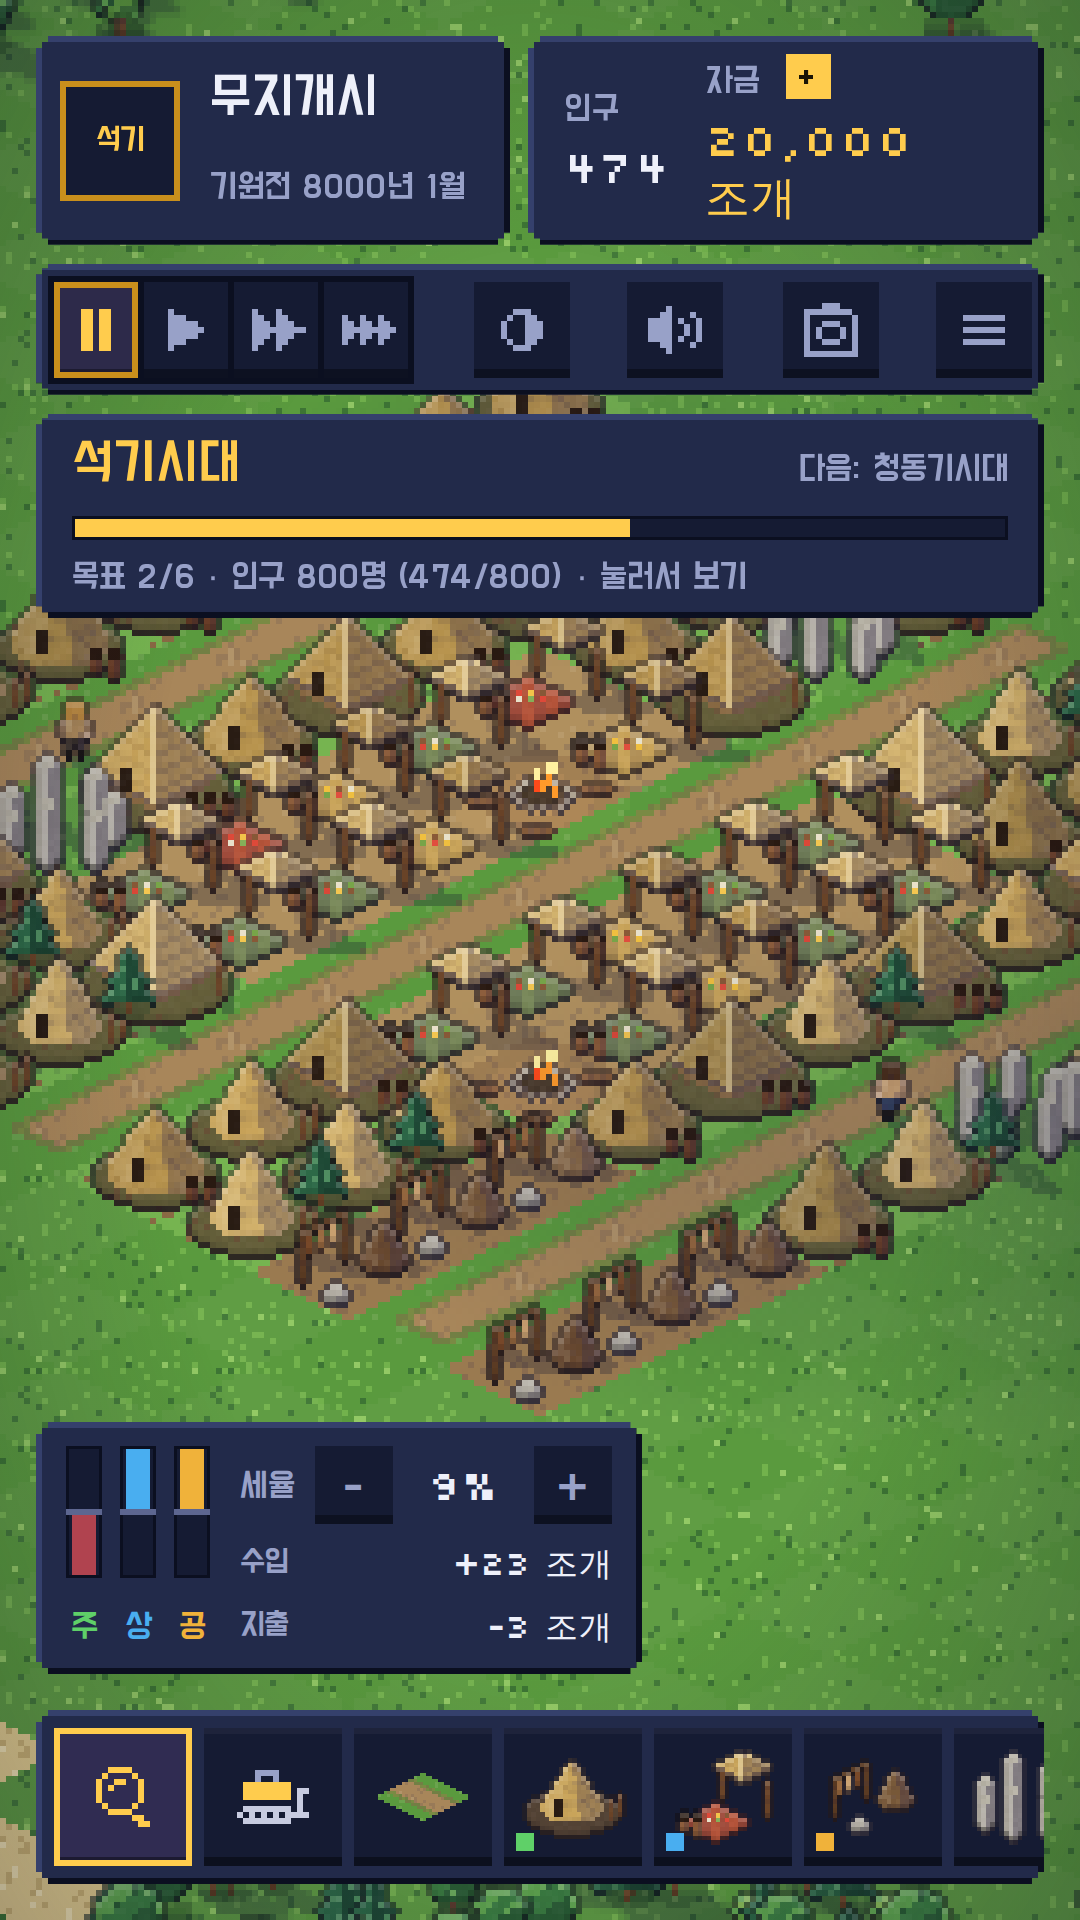
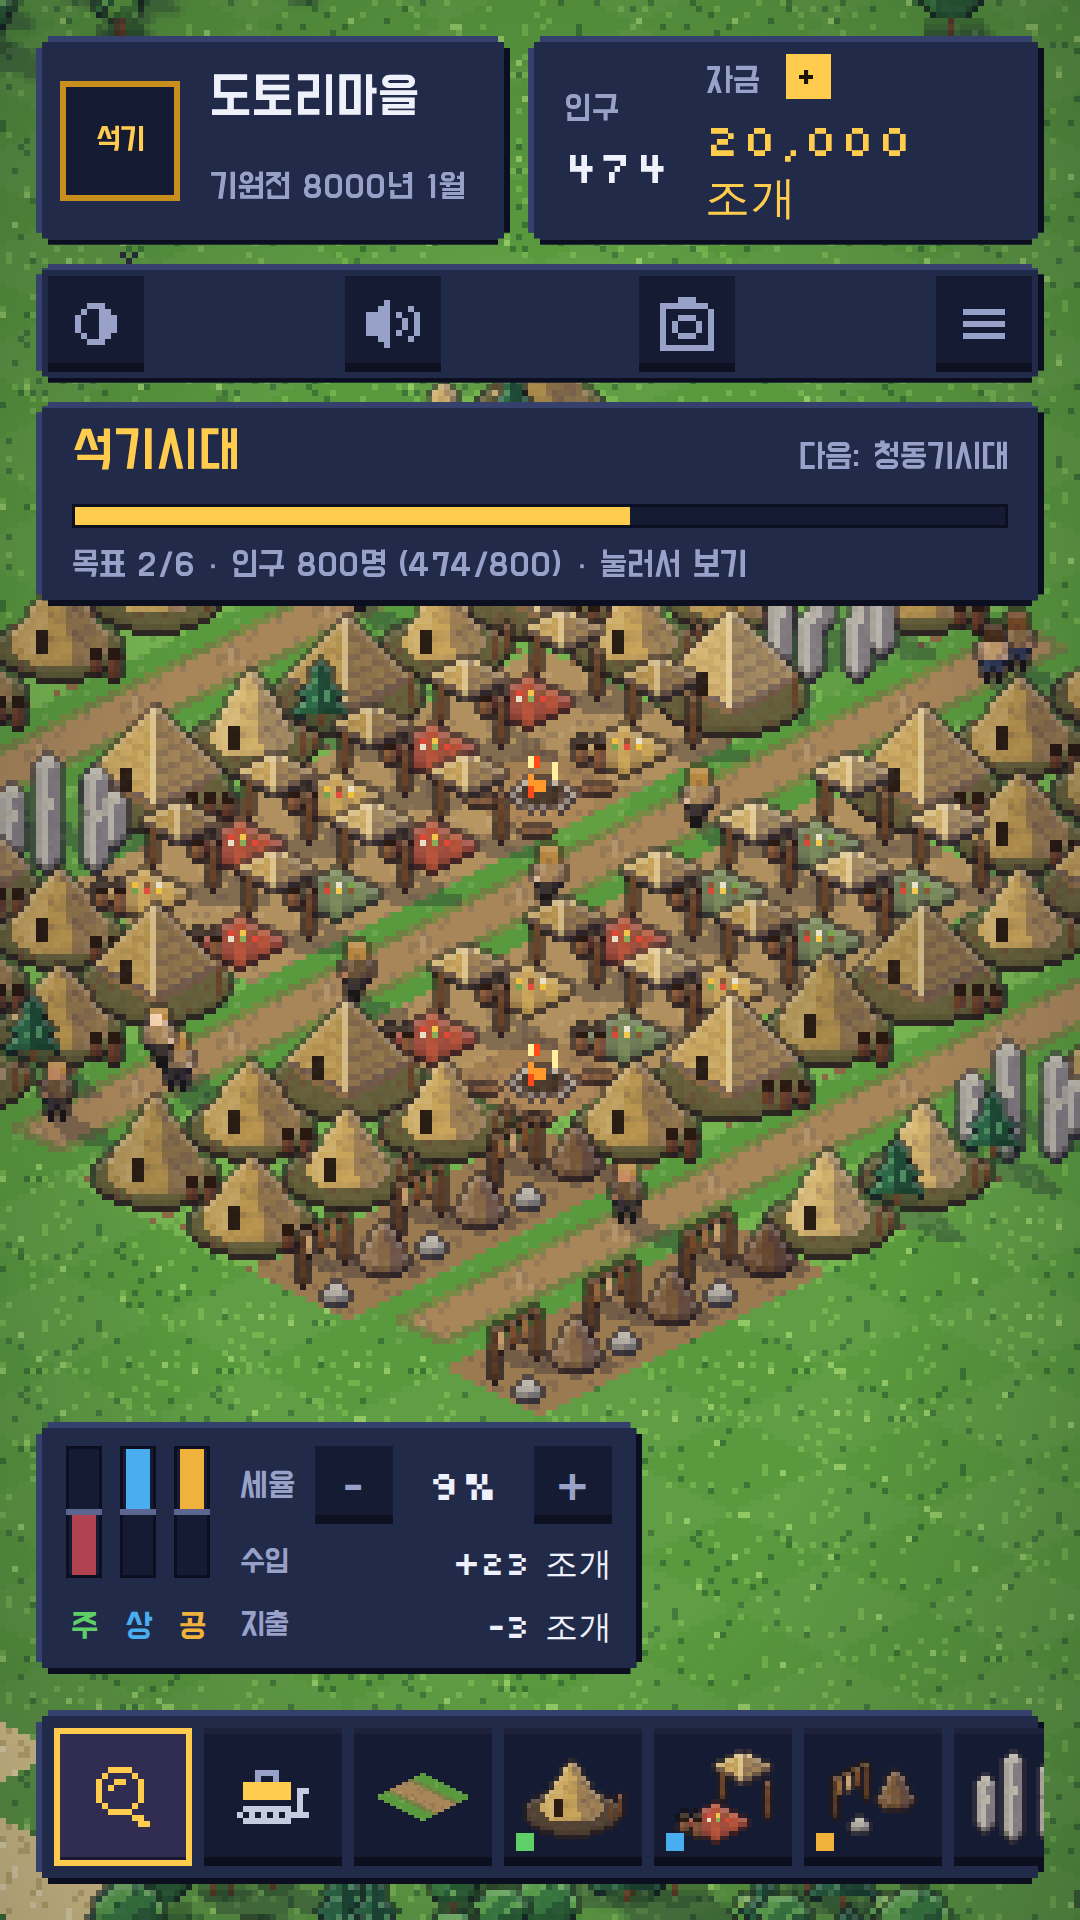
Remove the pause and speed buttons
The city always runs at normal pace; fast-forward also sped up income,
which made top-ups pointless. Dialogs still pause the game behind them.
Store screenshots regenerated without the speed buttons.

Claude-Session: https://claude.ai/code/session_01XxvA4eUhsjPuZbBYtpabHX

diff --git a/dotcity/index.html b/dotcity/index.html
@@ -75,6 +75,7 @@ button{font:inherit;color:inherit}
 .em-name small{display:block;margin-top:6px;font-size:12px;color:var(--ink-dim)}
 .date{font-size:12px;color:var(--ink-dim)}
 .ctrl{margin-left:auto;display:flex;gap:6px;align-items:center;padding:6px}
+#speed[hidden]{display:none}   /* the city always runs at one pace; pause only happens behind dialogs */
 .seg{display:flex;gap:2px;background:var(--edge);padding:2px}
 .ib{width:38px;height:38px;display:grid;place-items:center;background:var(--panel-lo);border:0;cursor:pointer;color:var(--ink-dim);box-shadow:inset 0 -3px 0 rgba(0,0,0,.35)}
 .ib:hover{color:var(--ink);background:#1b2342}
@@ -268,7 +269,7 @@ body.photo>*:not(#view):not(#vig):not(#photobar):not(#shotView){display:none!imp
     <div class="et" id="eraTask"></div>
   </section>
   <section class="card ctrl">
-    <div class="seg" id="speed" role="group" aria-label="게임 속도"></div>
+    <div class="seg" id="speed" role="group" aria-label="게임 속도" hidden></div>
     <button class="ib" id="dayBtn" aria-label="시간대"></button>
     <button class="ib" id="sndBtn" aria-label="소리"></button>
     <button class="ib" id="photoBtn" aria-label="사진 모드" title="사진 모드"></button>
@@ -351,7 +352,6 @@ body.photo>*:not(#view):not(#vig):not(#photobar):not(#shotView){display:none!imp
       <dt class="kb">우클릭 드래그</dt><dd class="kb">지도 이동 · 휴대폰은 두 손가락</dd>
       <dt class="kb">휠 / + -</dt><dd class="kb">확대·축소</dd>
       <dt class="kb">WASD</dt><dd class="kb">지도 이동</dd>
-      <dt class="kb">SPACE</dt><dd class="kb">일시정지</dd>
       <dt class="kb">Q X R U 1-9 G H J K</dt><dd class="kb">도구 선택 · P V O C T E F L 데이터 보기</dd>
     </dl>
   </div>
@@ -2689,7 +2689,6 @@ window.addEventListener('keydown',e=>{if(e.target.tagName==='INPUT')return;const
   if(!$('#menu').hidden){if(k==='escape')closeMenu();return;}
   if(!$('#shop').hidden){if(k==='escape')closeShop();return;}
   if(['arrowup','arrowdown','arrowleft','arrowright','w','a','s','d'].includes(k)){keys.add(k);e.preventDefault();return;}
-  if(k===' '){e.preventDefault();setSpeed(speed?0:1);return;}
   if(k==='escape'&&document.body.classList.contains('photo')){photoMode(false);return;}
   if(k==='escape'){drag=null;clearTarget();setTool('inspect');selected=null;$('#info').hidden=true;return;}
   if(k==='+'||k==='='){zoomTo(cam.s+1);return;}if(k==='-'||k==='_'){zoomTo(cam.s-1);return;}
